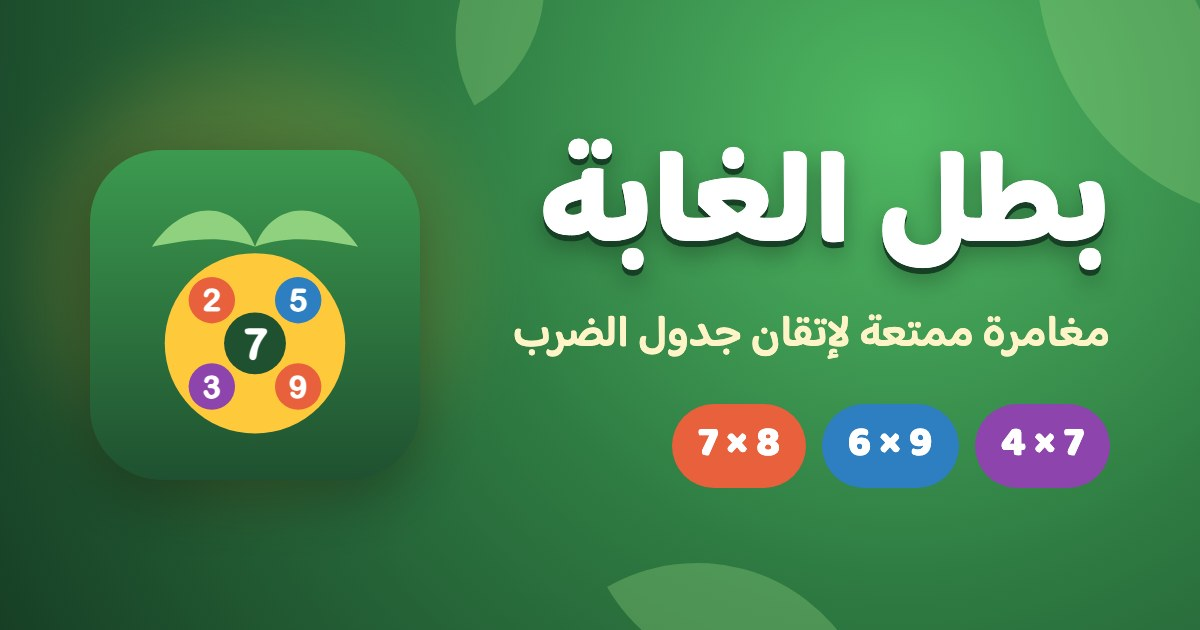
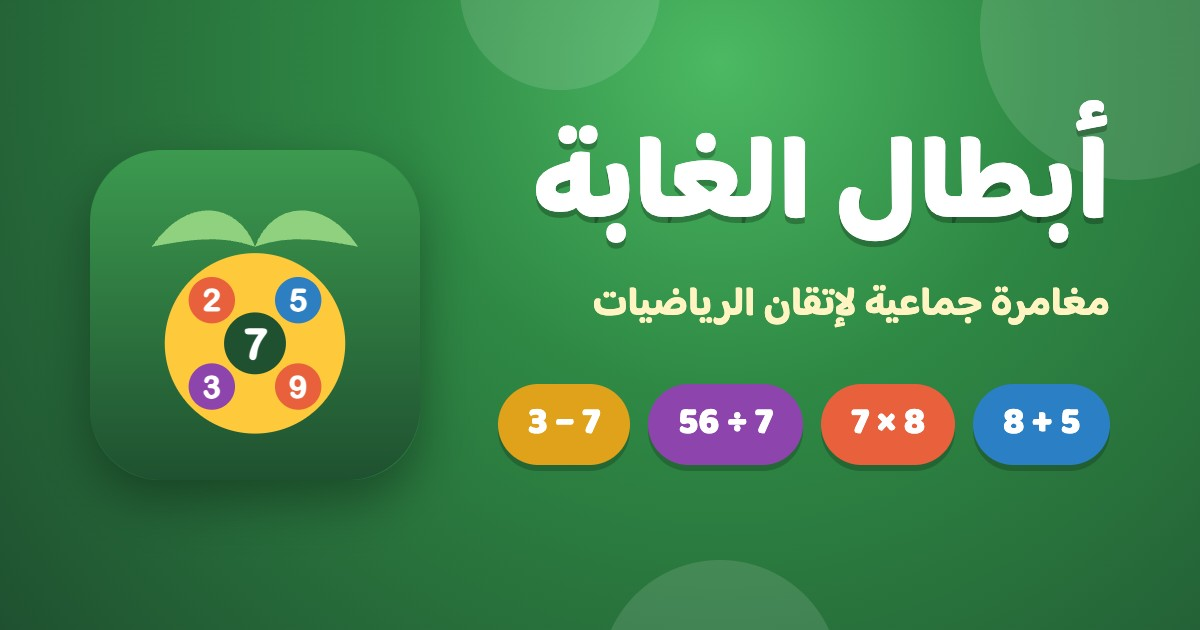
اسم التطبيق «أبطال الغابة» ليدل أنه للعب الجماعي، ووصفه لعبة رياضيات شاملة
- الاسم الجديد في الشاشة الرئيسية وعنوان الصفحة واسم التطبيق المثبّت
- الوصف وصورة المشاركة بأمثلة من كل الغابات بدل جدول الضرب وحده

diff --git a/index.html b/index.html
@@ -5,21 +5,21 @@
   <meta name="viewport" content="width=device-width, initial-scale=1, viewport-fit=cover">
   <meta name="theme-color" content="#1f5130">
   <meta name="mobile-web-app-capable" content="yes">
-  <title>بطل الغابة</title>
-  <meta name="description" content="مغامرة ممتعة في الغابة لإتقان الضرب والقسمة">
+  <title>أبطال الغابة</title>
+  <meta name="description" content="مغامرة جماعية في الغابة لإتقان الرياضيات: الجمع والطرح والضرب والقسمة والكسور والأعداد السالبة">
   <meta property="og:type" content="website">
-  <meta property="og:site_name" content="بطل الغابة">
-  <meta property="og:title" content="بطل الغابة">
-  <meta property="og:description" content="مغامرة ممتعة في الغابة لإتقان الضرب والقسمة">
+  <meta property="og:site_name" content="أبطال الغابة">
+  <meta property="og:title" content="أبطال الغابة">
+  <meta property="og:description" content="مغامرة جماعية في الغابة لإتقان الرياضيات: الجمع والطرح والضرب والقسمة والكسور والأعداد السالبة">
   <meta property="og:url" content="https://znammous.github.io/jungle-hero/">
   <meta property="og:image" content="https://znammous.github.io/jungle-hero/icons/og-image.jpg">
   <meta property="og:image:width" content="1200">
   <meta property="og:image:height" content="630">
-  <meta property="og:image:alt" content="بطل الغابة — لعبة جدول الضرب">
+  <meta property="og:image:alt" content="أبطال الغابة — لعبة رياضيات للأطفال">
   <meta property="og:locale" content="ar_AR">
   <meta name="twitter:card" content="summary_large_image">
-  <meta name="twitter:title" content="بطل الغابة">
-  <meta name="twitter:description" content="مغامرة ممتعة في الغابة لإتقان الضرب والقسمة">
+  <meta name="twitter:title" content="أبطال الغابة">
+  <meta name="twitter:description" content="مغامرة جماعية في الغابة لإتقان الرياضيات: الجمع والطرح والضرب والقسمة والكسور والأعداد السالبة">
   <meta name="twitter:image" content="https://znammous.github.io/jungle-hero/icons/og-image.jpg">
   <link rel="manifest" href="manifest.webmanifest">
   <link rel="icon" href="icons/icon.svg" type="image/svg+xml">

diff --git a/js/app.js b/js/app.js
@@ -1,4 +1,4 @@
-// بطل الغابة — الشاشات والتفاعل
+// أبطال الغابة — الشاشات والتفاعل
 (() => {
   const app = document.getElementById('app');
   let round = null;       // الجولة الجارية (تدريب، إحماء، سباق، مراجعة)
@@ -117,7 +117,7 @@
       render(`<section class="screen welcome">
         <header class="hero-title">
           <div class="logo">🌴🧭🌴</div>
-          <h1>بطل الغابة</h1>
+          <h1>أبطال الغابة</h1>
         </header>
         <div class="card welcome-card">
           <div class="welcome-icon">☁</div>
@@ -139,7 +139,7 @@
       render(`<section class="screen">
         <header class="hero-title">
           <div class="logo">🌴🧭🌴</div>
-          <h1>بطل الغابة</h1>
+          <h1>أبطال الغابة</h1>
           <p>من المستكشف اليوم؟</p>
         </header>
         <div class="profile-grid compact">
@@ -435,7 +435,7 @@
             <p class="muted">أفضل نتيجة: ${ltr(best)} في الدقيقة</p>
             ${next ? `${bar((best - prev) / (next.min - prev))}
               <p class="muted">باقي ${ltr(next.min - best)} لتصبح ${next.emoji} ${next.name}</p>`
-              : '<p class="muted">فتحت كل الرتب! أنت بطل الغابة 🎉</p>'}
+              : '<p class="muted">فتحت كل الرتب! أنت من أبطال الغابة 🎉</p>'}
           </div>
         </div>
         <ol class="rank-path">

diff --git a/sw.js b/sw.js
@@ -1,6 +1,6 @@
 // يحفظ ملفات اللعبة على الجهاز لتعمل بدون إنترنت
 // غيّر رقم الإصدار عند تعديل أي ملف حتى يحدَّث الكاش
-const CACHE = 'jungle-hero-v48';
+const CACHE = 'jungle-hero-v49';
 const FILES = [
   './',
   'index.html',

diff --git a/README.md b/README.md
@@ -1,4 +1,4 @@
-# 🌴 بطل الغابة
+# 🌴 أبطال الغابة
 
 لعبة لتعلّم الرياضيات: مغامرة في عالم من الغابات، كل غابة عملية حسابية (الضرب، القسمة، وقريباً الجمع والطرح والكسور والسالب والموجب). تعمل بدون إنترنت، وكل البيانات محفوظة على الجهاز نفسه.
 
